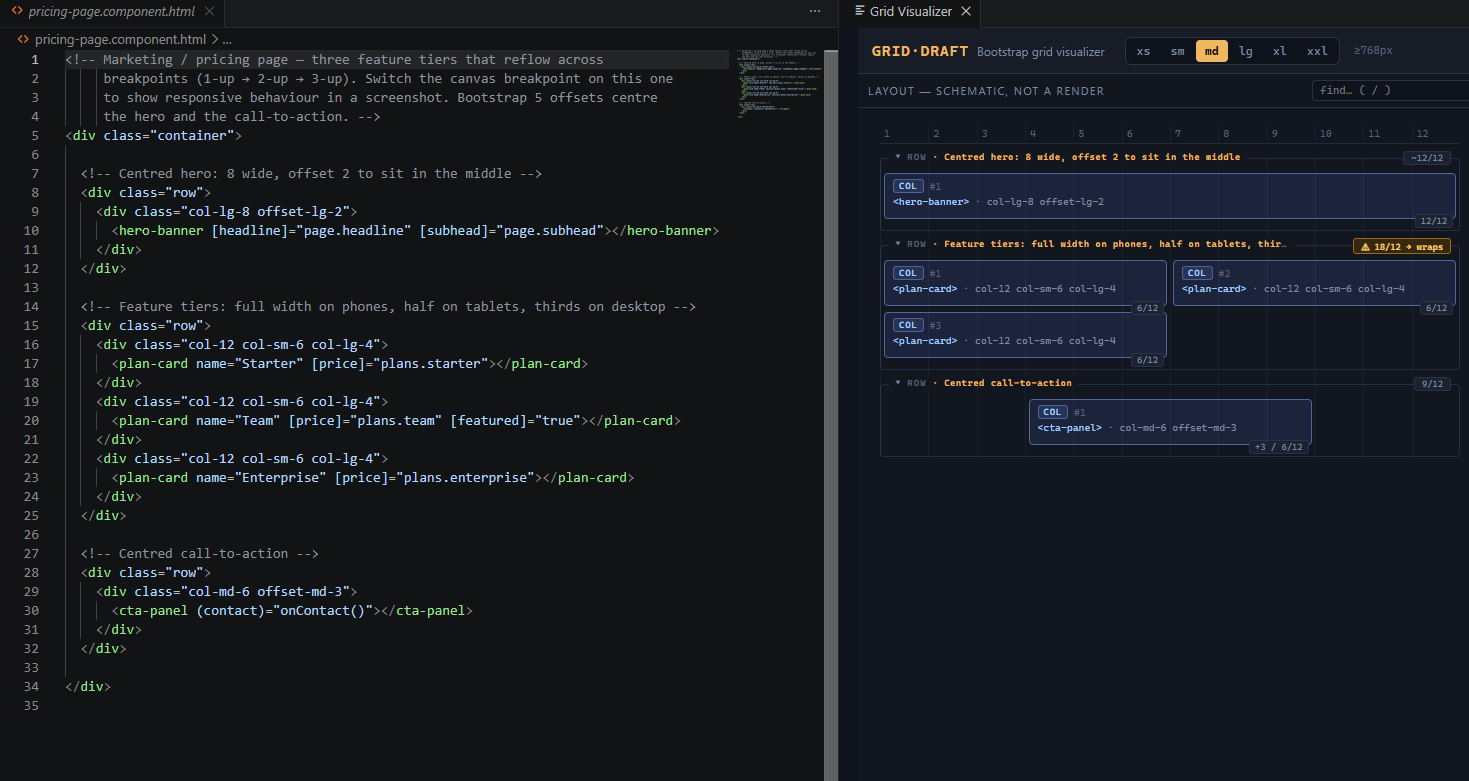
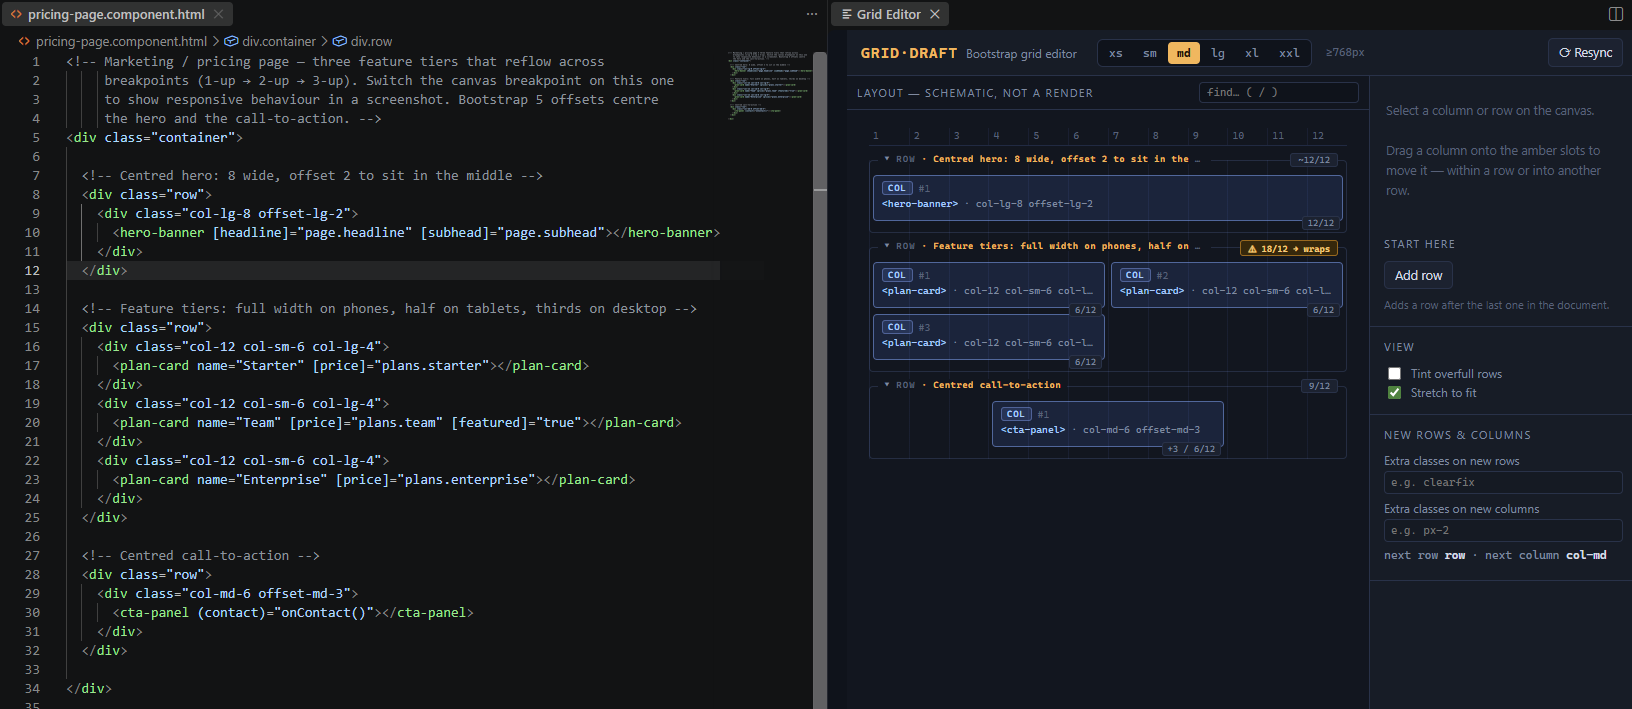
Refresh Marketplace screenshots for the renamed UI
Replace all six listing screenshots with captures of the current build
(panel now reads "Grid Editor" / "Bootstrap grid editor", hint "e.g.
clearfix"). Update the conditional-layout captions to match what the
new pair shows: the in-row region toggled from @if (pro) to @else if
(team), rather than the old top-level sign-in / tips-off framing.

Claude-Session: https://claude.ai/code/session_01CZUgLs8hvbUNjhgNW5qzfZ

diff --git a/packages/app-extension/README.md b/packages/app-extension/README.md
@@ -85,12 +85,12 @@ source. The same account page with its branches toggled:
 
 <table>
   <tr>
-    <td><img src="media/conditional-if.png" alt="The @if branch active: profile summary and the *ngIf tips rail shown"></td>
-    <td><img src="media/conditional-else.png" alt="The @else and @else-if branches active: sign-in form, team columns, tips rail hidden"></td>
+    <td><img src="media/conditional-if.png" alt="The in-row @if branch active: pro-features spans col-md-8 beside the usage meter"></td>
+    <td><img src="media/conditional-else.png" alt="The in-row @else-if branch active: team-features and seat-manager replace pro-features"></td>
   </tr>
   <tr>
-    <td align="center"><code>@if</code> · <code>pro</code> · tips on</td>
-    <td align="center"><code>@else</code> · <code>@else if (team)</code> · tips off</td>
+    <td align="center"><code>@if (plan === 'pro')</code> · pro-features</td>
+    <td align="center"><code>@else if (plan === 'team')</code> · team + seats</td>
   </tr>
 </table>
 
